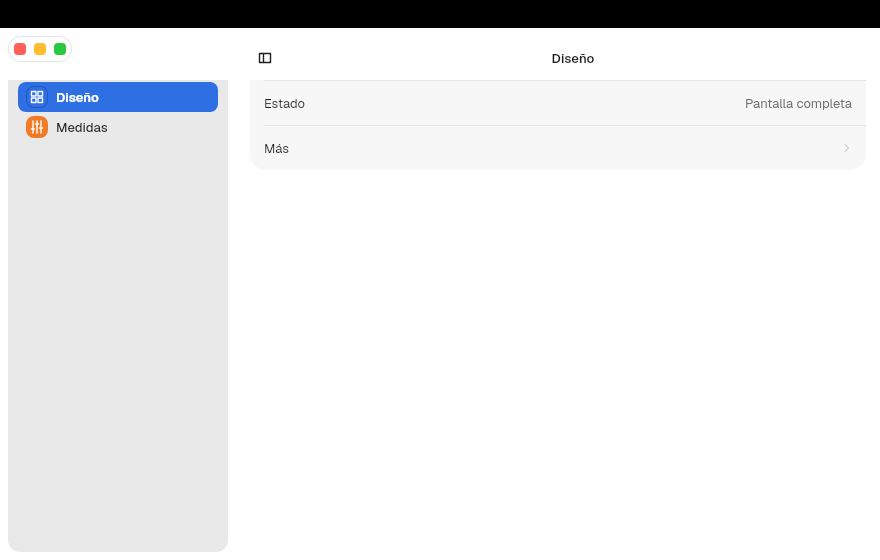
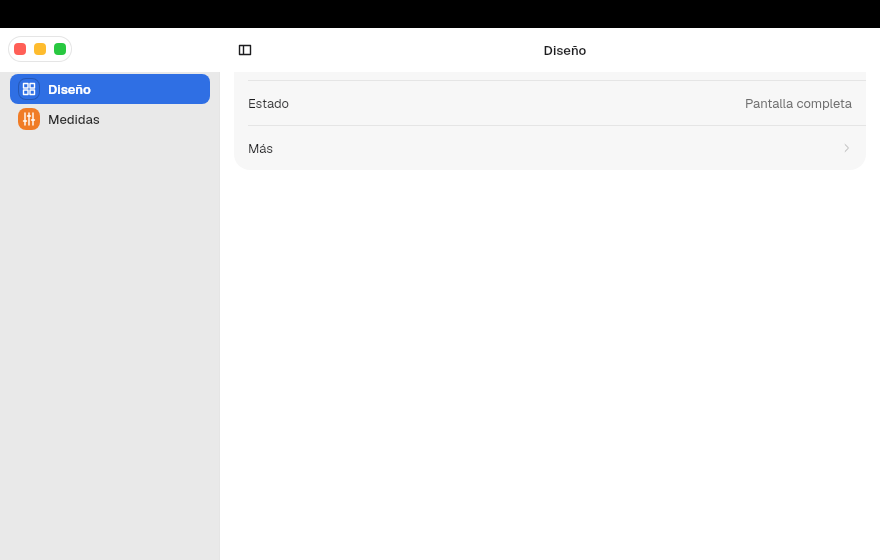
feat(kit): con la barra lateral en isla, ventana maximizada o a pantalla completa usa Top
WindowChrome cambia el diseño a Top cuando la barra lateral en isla está
visible y la ventana está maximizada o en pantalla completa: el rail, la
columna de Unified y la píldora desaparecen y los semáforos vuelven a la
isla. Con barra plana o sin barra lateral cada diseño se conserva. El
capítulo 7 lo muestra y precisa que los dos vidrios cubren también la
barra lateral.

Claude-Session: https://claude.ai/code/session_01F89v1w3NBR5b9eab8vdVJm

diff --git a/crates/barrier-kit/src/chrome.rs b/crates/barrier-kit/src/chrome.rs
@@ -171,6 +171,14 @@ pub(crate) fn report_sidebar_shown(shown: bool) {
     }
 }
 
+fn lights_in_island(sidebar_shown: bool, island: bool) -> bool {
+    let enlarged = try_consume_root_context::<WindowControls>().is_some_and(|controls| {
+        let status = *controls.status.read();
+        status.maximized || status.fullscreen
+    });
+    sidebar_shown && island && enlarged
+}
+
 pub(crate) fn fullscreen_bar() -> FullscreenBar {
     try_consume_root_context::<WindowControls>()
         .map_or(FullscreenBar::Solid, |controls| controls.fullscreen_bar)
@@ -305,7 +313,14 @@ impl Component for WindowChrome {
             provide_context(chrome);
             chrome
         });
+        let sidebar_shown = *chrome.sidebar_shown.read();
+        let island = crate::theme::resolved().sidebar.style == SidebarStyle::Island;
         let style = ChromeStyle {
+            layout: if lights_in_island(sidebar_shown, island) {
+                TitlebarLayout::Top
+            } else {
+                self.style.layout
+            },
             rail_width: if self.footer.is_some() {
                 self.style.rail_width.max(TITLEBAR_RAIL.actions_width)
             } else {
@@ -315,7 +330,6 @@ impl Component for WindowChrome {
         };
         let mut style_state = chrome.style;
         style_state.set_if_modified(style);
-        let sidebar_shown = *chrome.sidebar_shown.read();
         let mut revealed = use_state(|| false);
         let mut size = chrome.size;
         let reduced_motion = crate::theme::resolved().reduced_motion;

diff --git a/docs/barrierkit/07-titlebars.md b/docs/barrierkit/07-titlebars.md
@@ -172,8 +172,8 @@ es la barra del compositor, añadida a la imagen.
 | `FullscreenBar` | Qué dibuja | Dónde empieza el contenido (`fullscreen_content_top`) | Cómo se ve |
 |---|---|---|---|
 | `Solid` («A · Lisa», **por defecto**) | Una banda opaca del color de la ventana, del alto de la titlebar. Corta lo que pasa por debajo con un borde duro | Barra + `FULLSCREEN_BAR.content_top` (44) | ![A · Lisa](assets/estados/barra-lisa.png) |
-| `Glass` («B1 · Vidrio en banda») | Una banda del alto de la titlebar que difumina lo de debajo (`FULLSCREEN_BAND`), con tinte y una línea abajo | Barra + `FULLSCREEN_BAND.content_top` (44) | ![B1 · Vidrio en banda](assets/estados/barra-vidrio-banda.png) |
-| `ProgressiveGlass` («B2 · Vidrio progresivo», Ondina) | Difuminado máximo arriba que se desvanece en 96 px, sin línea, de borde a borde de la ventana ([ADR 0057](../decisiones/0057-cristal-y-barra-lateral-sobre-fondo.md)) | Barra + `FULLSCREEN_GLASS.content_top` (74) | ![B2 · Vidrio progresivo](assets/estados/barra-vidrio-progresivo.png) |
+| `Glass` («B1 · Vidrio en banda») | Una banda del alto de la titlebar, de borde a borde de la ventana y sobre la barra lateral, que difumina lo de debajo (`FULLSCREEN_BAND`), con tinte y una línea abajo | Barra + `FULLSCREEN_BAND.content_top` (44) | ![B1 · Vidrio en banda](assets/estados/barra-vidrio-banda.png) |
+| `ProgressiveGlass` («B2 · Vidrio progresivo», Ondina) | Difuminado máximo arriba que se desvanece en 96 px, sin línea, de borde a borde de la ventana y sobre la barra lateral ([ADR 0057](../decisiones/0057-cristal-y-barra-lateral-sobre-fondo.md)) | Barra + `FULLSCREEN_GLASS.content_top` (74) | ![B2 · Vidrio progresivo](assets/estados/barra-vidrio-progresivo.png) |
 | `Push` («E · Empuja») | No tapa nada: la titlebar vuelve al diseño y empuja hacia abajo la columna de detalle lo que miden la barra y la titlebar. La barra lateral no se mueve | 0: el contenido baja solo | ![E · Empuja, barra bajada](assets/estados/barra-empuja.png) |
 
 Con `Push` y la barra arriba, el contenido llega al borde superior:
@@ -185,9 +185,17 @@ cristal. Con las demás es opaca.
 
 ### Modo foco con la barra bajada, por diseño
 
-Con la barra por defecto (`Solid`). En estas capturas, la franja negra de
-arriba (28 px) es la barra del compositor, añadida a la imagen: la app no la
-dibuja.
+**Con la barra lateral en isla y la ventana maximizada o en pantalla
+completa, todos los diseños pasan a `Top`:** el rail, la columna de `Unified` y
+la píldora desaparecen y los semáforos vuelven a la isla. Así se ve `Rail` con
+isla en modo foco:
+
+![Rail con isla en modo foco: los semáforos vuelven a la isla](assets/estados/foco-isla-rail.png)
+
+Con la barra lateral plana o sin barra lateral, cada diseño se conserva. Las
+capturas de esta tabla usan la barra lateral plana (salvo `Top`) y la barra por
+defecto (`Solid`). La franja negra de arriba (28 px) es la barra del
+compositor, añadida a la imagen: la app no la dibuja.
 
 | Diseño | Qué baja | Cómo se ve |
 |---|---|---|

diff --git a/docs/barrierkit/07-titlebars.en.md b/docs/barrierkit/07-titlebars.en.md
@@ -171,8 +171,8 @@ top is the compositor bar, added to the image.
 | `FullscreenBar` | What it draws | Where the content starts (`fullscreen_content_top`) | How it looks |
 |---|---|---|---|
 | `Solid` ("A · Lisa", **default**) | An opaque band in the window color, as tall as the titlebar. It cuts what passes below with a hard edge | Bar + `FULLSCREEN_BAR.content_top` (44) | ![A · Lisa](assets/estados/barra-lisa.png) |
-| `Glass` ("B1 · Vidrio en banda") | A band as tall as the titlebar that blurs what is below (`FULLSCREEN_BAND`), with a tint and a line at the bottom | Bar + `FULLSCREEN_BAND.content_top` (44) | ![B1 · Glass band](assets/estados/barra-vidrio-banda.png) |
-| `ProgressiveGlass` ("B2 · Vidrio progresivo", Ondina) | Maximum blur at the top that fades out over 96 px, without a line, from edge to edge of the window ([ADR 0057](../decisiones/0057-cristal-y-barra-lateral-sobre-fondo.md)) | Bar + `FULLSCREEN_GLASS.content_top` (74) | ![B2 · Progressive glass](assets/estados/barra-vidrio-progresivo.png) |
+| `Glass` ("B1 · Vidrio en banda") | A band as tall as the titlebar, from edge to edge of the window and over the sidebar, that blurs what is below (`FULLSCREEN_BAND`), with a tint and a line at the bottom | Bar + `FULLSCREEN_BAND.content_top` (44) | ![B1 · Glass band](assets/estados/barra-vidrio-banda.png) |
+| `ProgressiveGlass` ("B2 · Vidrio progresivo", Ondina) | Maximum blur at the top that fades out over 96 px, without a line, from edge to edge of the window and over the sidebar ([ADR 0057](../decisiones/0057-cristal-y-barra-lateral-sobre-fondo.md)) | Bar + `FULLSCREEN_GLASS.content_top` (74) | ![B2 · Progressive glass](assets/estados/barra-vidrio-progresivo.png) |
 | `Push` ("E · Empuja") | It covers nothing: the titlebar returns to the layout and pushes the detail column down by the height of the bar and the titlebar. The sidebar does not move | 0: the content moves down by itself | ![E · Push, bar down](assets/estados/barra-empuja.png) |
 
 With `Push` and the bar up, the content reaches the top edge:
@@ -184,9 +184,17 @@ With the others it is opaque.
 
 ### Focus mode with the bar down, by layout
 
-With the default bar (`Solid`). In these screenshots, the black strip at the
-top (28 px) is the compositor bar, added to the image: the app does not draw
-it.
+**With an island sidebar and the window maximized or in full screen, every
+layout becomes `Top`:** the rail, the `Unified` column and the pill go away and
+the traffic lights return to the island. This is `Rail` with an island in focus
+mode:
+
+![Rail with an island in focus mode: the traffic lights return to the island](assets/estados/foco-isla-rail.png)
+
+With a flat sidebar or no sidebar, each layout is kept. The screenshots in this
+table use the flat sidebar (except `Top`) and the default bar (`Solid`). The
+black strip at the top (28 px) is the compositor bar, added to the image: the
+app does not draw it.
 
 | Layout | What comes down | How it looks |
 |---|---|---|
